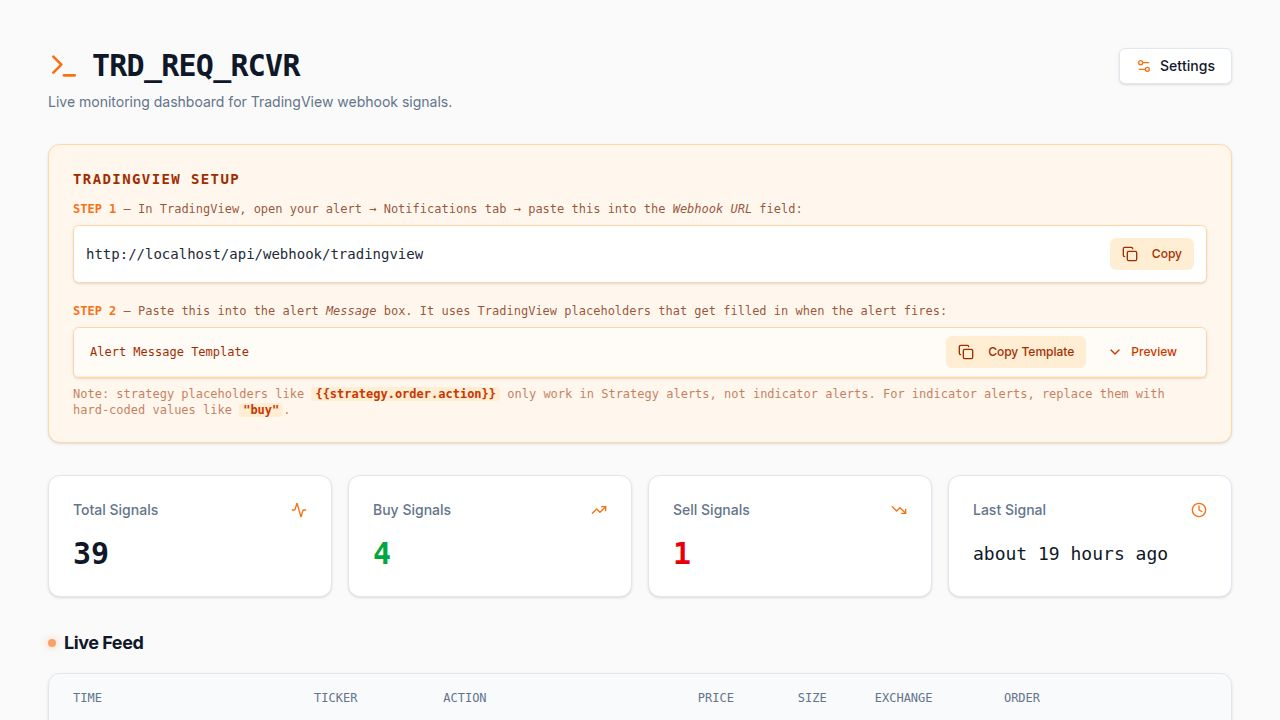
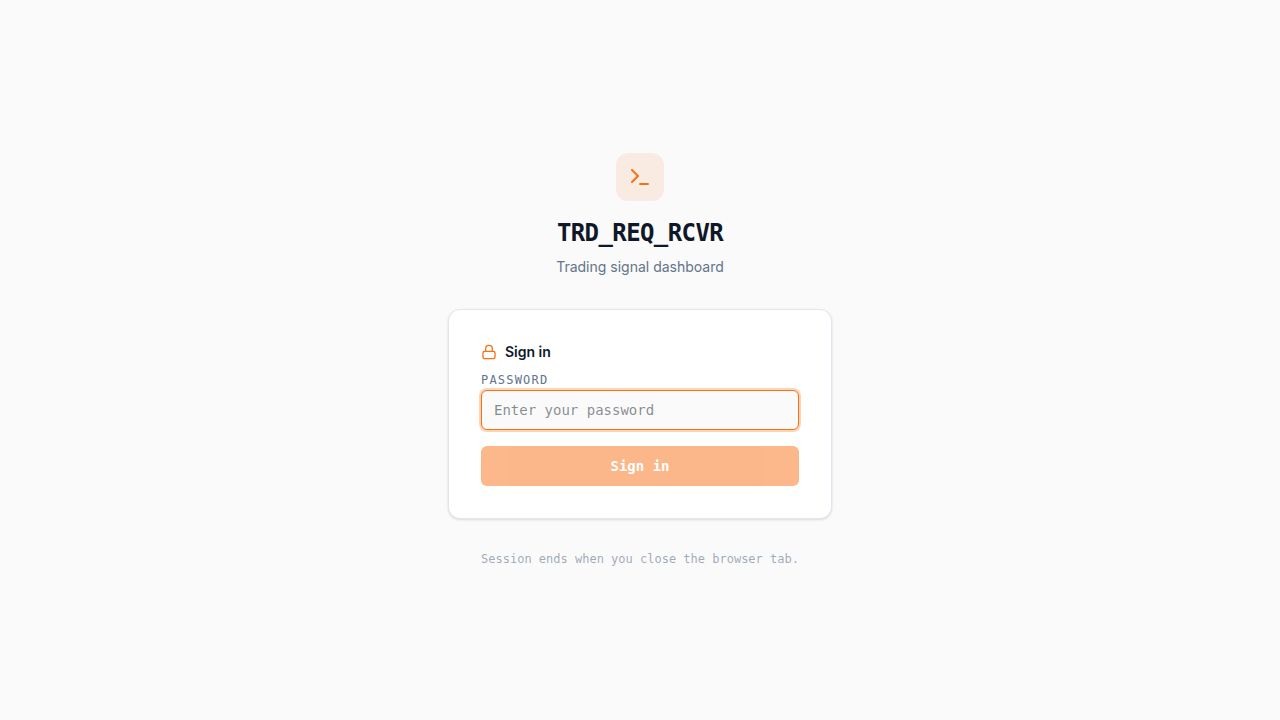
Add disconnect buttons to broker connection settings
Introduce a disconnect handler and corresponding buttons on the settings UI for each broker to clear their credentials via the updateSettings API mutation.

Replit-Commit-Author: Agent
Replit-Commit-Session-Id: 0f7311df-e5d4-4c08-a8ac-d024b796a6aa
Replit-Commit-Checkpoint-Type: full_checkpoint
Replit-Commit-Event-Id: db233e6e-2881-4eb7-bd2b-9b469132eade
Replit-Commit-Screenshot-Url: https://storage.googleapis.com/screenshot-production-us-central1/f1c38694-37eb-458d-821c-3b8cdf542cc7/0f7311df-e5d4-4c08-a8ac-d024b796a6aa/7prqNxu
Replit-Helium-Checkpoint-Created: true

diff --git a/artifacts/trade-receiver/src/pages/settings.tsx b/artifacts/trade-receiver/src/pages/settings.tsx
@@ -105,6 +105,27 @@ export default function Settings() {
     },
   });
 
+  const disconnect = (broker: "public" | "robinhood" | "webull") => {
+    const payload =
+      broker === "public"
+        ? { publicApiToken: null, publicAccountId: null }
+        : broker === "robinhood"
+        ? { robinhoodBearerToken: null }
+        : { webullAppKey: null, webullAppSecret: null, webullAccountId: null };
+    save(
+      { data: payload },
+      {
+        onSuccess: () => {
+          queryClient.invalidateQueries({ queryKey: getGetSettingsQueryKey() });
+          toast({ title: "Disconnected", description: `${broker === "public" ? "Public.com" : broker === "robinhood" ? "Robinhood" : "Webull"} credentials removed.` });
+          if (broker === "public") { setPublicToken(""); setPublicAccountId(""); }
+          if (broker === "robinhood") setRobinhoodToken("");
+          if (broker === "webull") { setWebullAppKey(""); setWebullAppSecret(""); setWebullAccountId(""); }
+        },
+      }
+    );
+  };
+
   const { mutate: testConn, isPending: testing, data: testResult } = useTestPublicConnection();
 
   const handleSave = () => {
@@ -193,9 +214,14 @@ export default function Settings() {
                 </div>
               </div>
               {settings?.hasApiToken ? (
-                <Badge className="bg-green-100 text-green-700 border-green-200 font-mono text-xs shrink-0">
-                  <Link2 className="w-3 h-3 mr-1" />Connected
-                </Badge>
+                <div className="flex items-center gap-2 shrink-0">
+                  <Badge className="bg-green-100 text-green-700 border-green-200 font-mono text-xs">
+                    <Link2 className="w-3 h-3 mr-1" />Connected
+                  </Badge>
+                  <Button variant="ghost" size="sm" className="h-7 px-2 text-xs text-muted-foreground hover:text-destructive hover:bg-destructive/10" onClick={() => disconnect("public")} disabled={saving}>
+                    <Unlink className="w-3 h-3 mr-1" />Disconnect
+                  </Button>
+                </div>
               ) : (
                 <Badge variant="outline" className="text-muted-foreground text-xs shrink-0">
                   <Unlink className="w-3 h-3 mr-1" />Not connected
@@ -268,9 +294,14 @@ export default function Settings() {
                 </div>
               </div>
               {settings?.hasRobinhoodToken ? (
-                <Badge className="bg-green-100 text-green-700 border-green-200 font-mono text-xs shrink-0">
-                  <Link2 className="w-3 h-3 mr-1" />Connected
-                </Badge>
+                <div className="flex items-center gap-2 shrink-0">
+                  <Badge className="bg-green-100 text-green-700 border-green-200 font-mono text-xs">
+                    <Link2 className="w-3 h-3 mr-1" />Connected
+                  </Badge>
+                  <Button variant="ghost" size="sm" className="h-7 px-2 text-xs text-muted-foreground hover:text-destructive hover:bg-destructive/10" onClick={() => disconnect("robinhood")} disabled={saving}>
+                    <Unlink className="w-3 h-3 mr-1" />Disconnect
+                  </Button>
+                </div>
               ) : (
                 <Badge variant="outline" className="text-muted-foreground text-xs shrink-0">
                   <Unlink className="w-3 h-3 mr-1" />Not connected
@@ -317,9 +348,14 @@ export default function Settings() {
                 </div>
               </div>
               {settings?.hasWebullKey ? (
-                <Badge className="bg-green-100 text-green-700 border-green-200 font-mono text-xs shrink-0">
-                  <Link2 className="w-3 h-3 mr-1" />Connected
-                </Badge>
+                <div className="flex items-center gap-2 shrink-0">
+                  <Badge className="bg-green-100 text-green-700 border-green-200 font-mono text-xs">
+                    <Link2 className="w-3 h-3 mr-1" />Connected
+                  </Badge>
+                  <Button variant="ghost" size="sm" className="h-7 px-2 text-xs text-muted-foreground hover:text-destructive hover:bg-destructive/10" onClick={() => disconnect("webull")} disabled={saving}>
+                    <Unlink className="w-3 h-3 mr-1" />Disconnect
+                  </Button>
+                </div>
               ) : (
                 <Badge variant="outline" className="text-muted-foreground text-xs shrink-0">
                   <Unlink className="w-3 h-3 mr-1" />Not connected